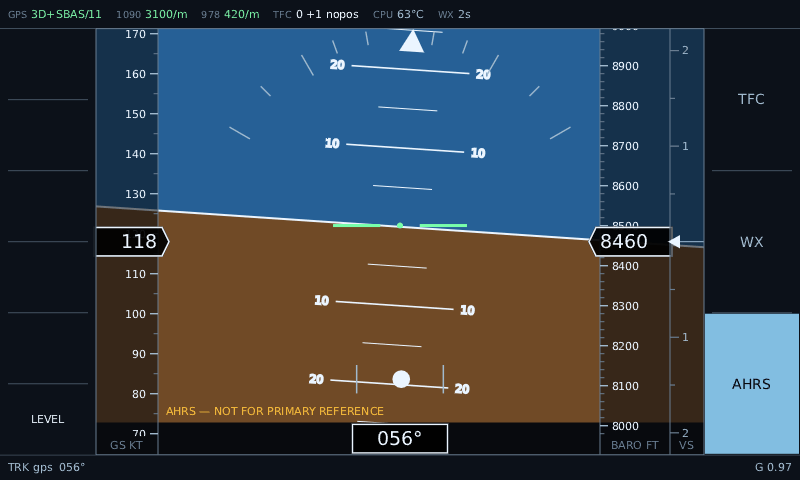
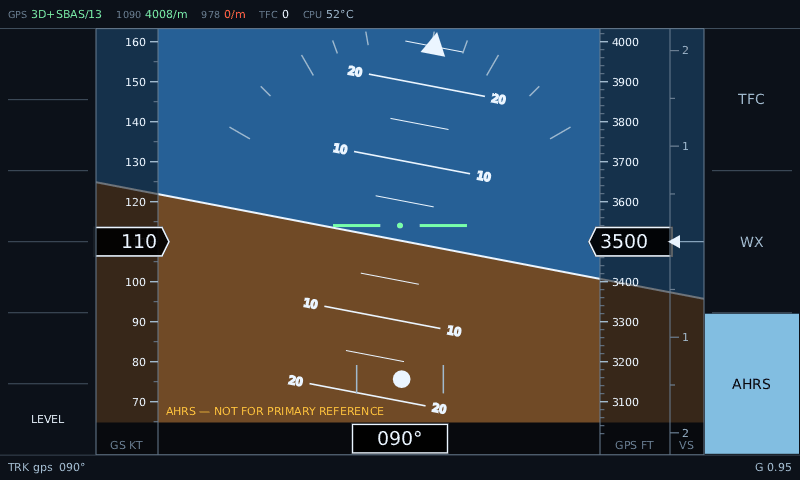
Rebroadcast weather, and show the README what live data looks like
Two things, found by trying to take screenshots of internet mode and
discovering the weather page was empty.

The mock published each weather product once and then stopped. Combined with
/weather deliberately not replaying on connect — which is upstream Stratux's
real behaviour and which AppState is built around — that meant any display
started after the list drained got nothing at all, forever. A panel opened ten
minutes into a session sat on NO WEATHER RECEIVED YET beside a healthy server
with fifty-two reports in hand.

Cycling the list fixes it and is also more faithful than draining was. FIS-B
ground stations rebroadcast on a repeating schedule; that is precisely why a
real receiver accumulates weather over several minutes rather than getting it
in one frame, and why the display's own empty-state notice says so. Re-sending
a report the display already holds is not waste — it refreshes the age, which
is what a rebroadcast does. Three tests: the cycle comes round, an empty list
never publishes a phantom, and a station that merged in late still gets reached.

Then the screenshots. The weather and attitude pages now come from --internet
instead of synth, because real reports and a real airborne state beat a fixture:
a live KABE TAF carrying TSRA, live METARs badged VFR, and an attitude page
reading 110 kt and 3500 ft with the footer showing TRK gps rather than HDG —
the mag and gyro headings arrive as the hardware sentinel, so the source falls
[…]

diff --git a/tools/mock-stratux/src/world.rs b/tools/mock-stratux/src/world.rs
@@ -164,9 +164,28 @@ impl World {
         added
     }
 
-    /// The next unpublished weather product, if any.
+    /// The next weather product to broadcast, cycling round the list forever.
+    ///
+    /// Cycling, not draining. FIS-B ground stations **rebroadcast** their products on a repeating
+    /// schedule — that is the whole reason a real receiver accumulates weather over several
+    /// minutes rather than getting it all at once, and why the display says exactly that when it
+    /// has none yet.
+    ///
+    /// Publishing each product once was the obvious first implementation and it was wrong in a way
+    /// that only showed up later: `/weather` deliberately does not replay on connect, so once the
+    /// list was exhausted every *new* client got nothing at all, forever. A display started ten
+    /// minutes after the server sat on `NO WEATHER RECEIVED YET` with a healthy server beside it.
+    ///
+    /// Re-sending a report the display already holds is not waste. It refreshes the age, which is
+    /// what a rebroadcast does on the real system.
     pub fn next_weather(&mut self) -> Option<wire::WeatherMessage> {
-        let item = self.weather.get(self.weather_published)?.clone();
+        if self.weather.is_empty() {
+            return None;
+        }
+        if self.weather_published >= self.weather.len() {
+            self.weather_published = 0;
+        }
+        let item = self.weather[self.weather_published].clone();
         self.weather_published += 1;
         Some(item)
     }
@@ -328,7 +347,11 @@ mod tests {
     }
 
     #[test]
-    fn weather_is_published_one_product_at_a_time_then_runs_out() {
+    fn weather_is_published_one_at_a_time_and_then_rebroadcast() {
+        // One product per turn, because FIS-B is opportunistic and a display that receives the
+        // whole set in one frame never exercises the incremental path. Then round again, because
+        // ground stations rebroadcast — and because `/weather` does not replay on connect, so a
+        // list that drained would leave every later client with nothing at all.
         let items = vec![
             wire::WeatherMessage { Type: "METAR".into(), ..Default::default() },
             wire::WeatherMessage { Type: "TAF".into(), ..Default::default() },
@@ -336,7 +359,40 @@ mod tests {
         let mut world = World::new(OwnShip::stationary(0.0, 0.0), vec![], items);
         assert_eq!(world.next_weather().map(|w| w.Type), Some("METAR".into()));
         assert_eq!(world.next_weather().map(|w| w.Type), Some("TAF".into()));
-        assert!(world.next_weather().is_none(), "must not loop the list forever");
+        assert_eq!(
+            world.next_weather().map(|w| w.Type),
+            Some("METAR".into()),
+            "the cycle must come round rather than drying up"
+        );
+    }
+
+    #[test]
+    fn an_empty_weather_list_never_publishes() {
+        // Cycling must not divide by zero or hand out a phantom report when there is nothing to
+        // say. This is the state on every cold start, before the first weather poll returns.
+        let mut world = World::new(OwnShip::stationary(0.0, 0.0), vec![], vec![]);
+        assert!(world.next_weather().is_none());
+        assert!(world.next_weather().is_none());
+    }
+
+    #[test]
+    fn a_product_added_after_the_cycle_started_is_reached() {
+        // Weather merges in over time as polls return. A product appended after the index has
+        // passed its position must still get broadcast, or a station that came into range late
+        // would never be heard from.
+        let metar = |body: &str| wire::WeatherMessage {
+            Type: "METAR".into(),
+            Data: body.into(),
+            ..Default::default()
+        };
+        let mut world = World::new(OwnShip::stationary(0.0, 0.0), vec![], vec![metar("A")]);
+        world.next_weather();
+        world.merge_weather(vec![metar("B")]);
+
+        let seen: Vec<String> = (0..4)
+            .filter_map(|_| world.next_weather().map(|w| w.Data))
+            .collect();
+        assert!(seen.contains(&"B".to_string()), "late arrival never broadcast: {seen:?}");
     }
 
     #[test]

diff --git a/README.md b/README.md
@@ -82,21 +82,22 @@ far overhead.
 
 ### Weather text
 
-![FIS-B text page listing METAR, TAF and PIREP](docs/images/weather-raw.png)
+![FIS-B text page listing live METARs](docs/images/weather-raw.png)
 
-Raw FIS-B products, newest first, each carrying **its own age** — delivery is opportunistic, so
-one station can be twenty minutes stale while its neighbour is current and nothing on the wire
-warns you. Hazards are highlighted inside the raw text (`FZRA` here) and the flight category is
-badged (`LIFR`).
+Real observations, pulled from aviationweather.gov moments before this was rendered. Newest first,
+each carrying **its own age** — delivery is opportunistic, so one station can be twenty minutes
+stale while its neighbour is current and nothing on the wire warns you. Hazards are highlighted
+inside the raw text and the flight category is badged (`VFR` here, green).
 
 ### Weather, decoded
 
-![The same METAR expanded into a glossary of its abbreviations](docs/images/weather-decoded.png)
+![A live TAF expanded into a glossary of its abbreviations](docs/images/weather-decoded.png)
 
 The `DECODE` soft key expands the selected report into every abbreviation it contains, including
-the structured groups — `291853Z` resolves through `Z`, `05010KT` through `KT`, `A2988` through
-`A`. Sourced from the NWS METAR/TAF card and FMH-1 chapter 5. Highlighted hazard codes keep their
-colour in the expansion so the eye lands on the same thing twice.
+the structured groups — `021740Z` resolves through `Z`, `16012KT` through `KT`, `P6SM` through `P`
+and `SM`. Sourced from the NWS METAR/TAF card and FMH-1 chapter 5. This is a real KABE forecast
+carrying `TSRA`, and the hazard keeps its colour in the expansion so the eye lands on the same
+thing twice.
 
 ### Attitude
 
@@ -104,6 +105,10 @@ colour in the expansion so the eye lands on the same thing twice.
 
 Pitch ladder, roll scale, sky/ground horizon, and moving tapes for ground speed, barometric
 altitude, vertical speed and track. `LEVEL` cages the AHRS from the panel.
+
+The footer reads `TRK gps 090°`, not `HDG`. That distinction is the point of the caption: the mag
+and gyro headings arrive as the hardware's in-band sentinel `3276.7`, so the source falls back to
+GPS track and says which one it is showing.
 
 **`AHRS — NOT FOR PRIMARY REFERENCE` is on screen permanently and deliberately.** There is no
 certified IMU here; the attitude comes from a hobby sensor and GPS-derived track.
@@ -183,6 +188,17 @@ cargo build --release -p avionics -p replay
     --alt-filter all
 ```
 
+The weather and attitude shots above come from `--internet` rather than from synth, because real
+reports and a real airborne state beat a fixture:
+
+```sh
+cargo run --release -p mock-stratux -- --internet --fly 090@110 &
+./target/release/avionics --host 127.0.0.1 --port 8080 --offscreen \
+    --out /tmp/shots/net --frames 240 --dump-every 230 --range 20
+```
+
+The plan-view shot with the NEXRAD underlay stays on synth: no free feed publishes FIS-B blocks.
+
 Output is PPM; convert with any of `pnmtopng`, ImageMagick, or Pillow.
 
 `captures/` is gitignored — recordings are large and specific to one trip — so the last command
@@ -258,7 +274,7 @@ device.
 | M6 | Kiosk hardening | **scripts written, none run on hardware yet** |
 | — | Soft-key strip + AHRS attitude page | **on the panel**; attitude sign conventions verified by tilting the box |
 
-262 tests passing, clippy clean.
+264 tests passing, clippy clean.
 
 The honest summary: the *stack* is proven end to end on the target — cross-compile, KMS, GLES2,
 panel, touch, all five Stratux sockets, live 1090 MHz traffic, and frame cost measured on a
@@ -410,6 +426,24 @@ idea it is not talking to a Pi. That is the whole point: no `--internet` flag on
 HTTP client in the aircraft binary. `cargo tree -p avionics` shows no `reqwest`, `rustls` or
 `hyper`.
 
+#### What it looks like
+
+Live, over New York, own-ship flying east at 110 kt and 3500 ft (`--fly 090@110`):
+
+![Plan view of live traffic with the default altitude band](docs/images/internet-plan-view.png)
+
+`TFC 17 +163 out +73 alt` — seventeen drawn, 163 beyond the 20 nm ring, and **73 withheld by the
+altitude band**, which is why `ALT NRM` is amber in both the key and the footer. The amber symbol
+near own-ship is a traffic advisory on a real aircraft.
+
+The same instant with the band opened to `ALT ALL`:
+
+![The same scene unfiltered, showing the full traffic density](docs/images/internet-plan-all.png)
+
+`TFC 93 +159 out`. Ninety-three targets, tags fighting for space and losing. This is the honest
+answer to what the display does in the busiest airspace in the country, and it is not something
+twelve synthetic targets will ever show you.
+
 New York metro is about 210 aircraft and 40 weather products. Targets are flown forward along
 their reported track and speed between polls, so the picture stays alive instead of freezing and
 going grey as the dead-reckoner gives up on it — and an arriving poll snaps them back to the
@@ -428,6 +462,12 @@ nothing at all until you notice the airport went past.
 which does not match this repo's licensing. aviationweather.gov is a US Government work and public
 domain. The test fixture in `snapshot.rs` is hand-written to the same shape rather than being a
 real extract.
+
+Weather is broadcast one product at a time and then **rebroadcast**, cycling round the list, which
+is what FIS-B ground stations actually do — it is why a real receiver accumulates weather over
+several minutes rather than getting it in one frame. Draining the list instead would leave any
+display started later showing `NO WEATHER RECEIVED YET` beside a perfectly healthy server, because
+`/weather` deliberately does not replay on connect.
 
 #### Fault injection
 
